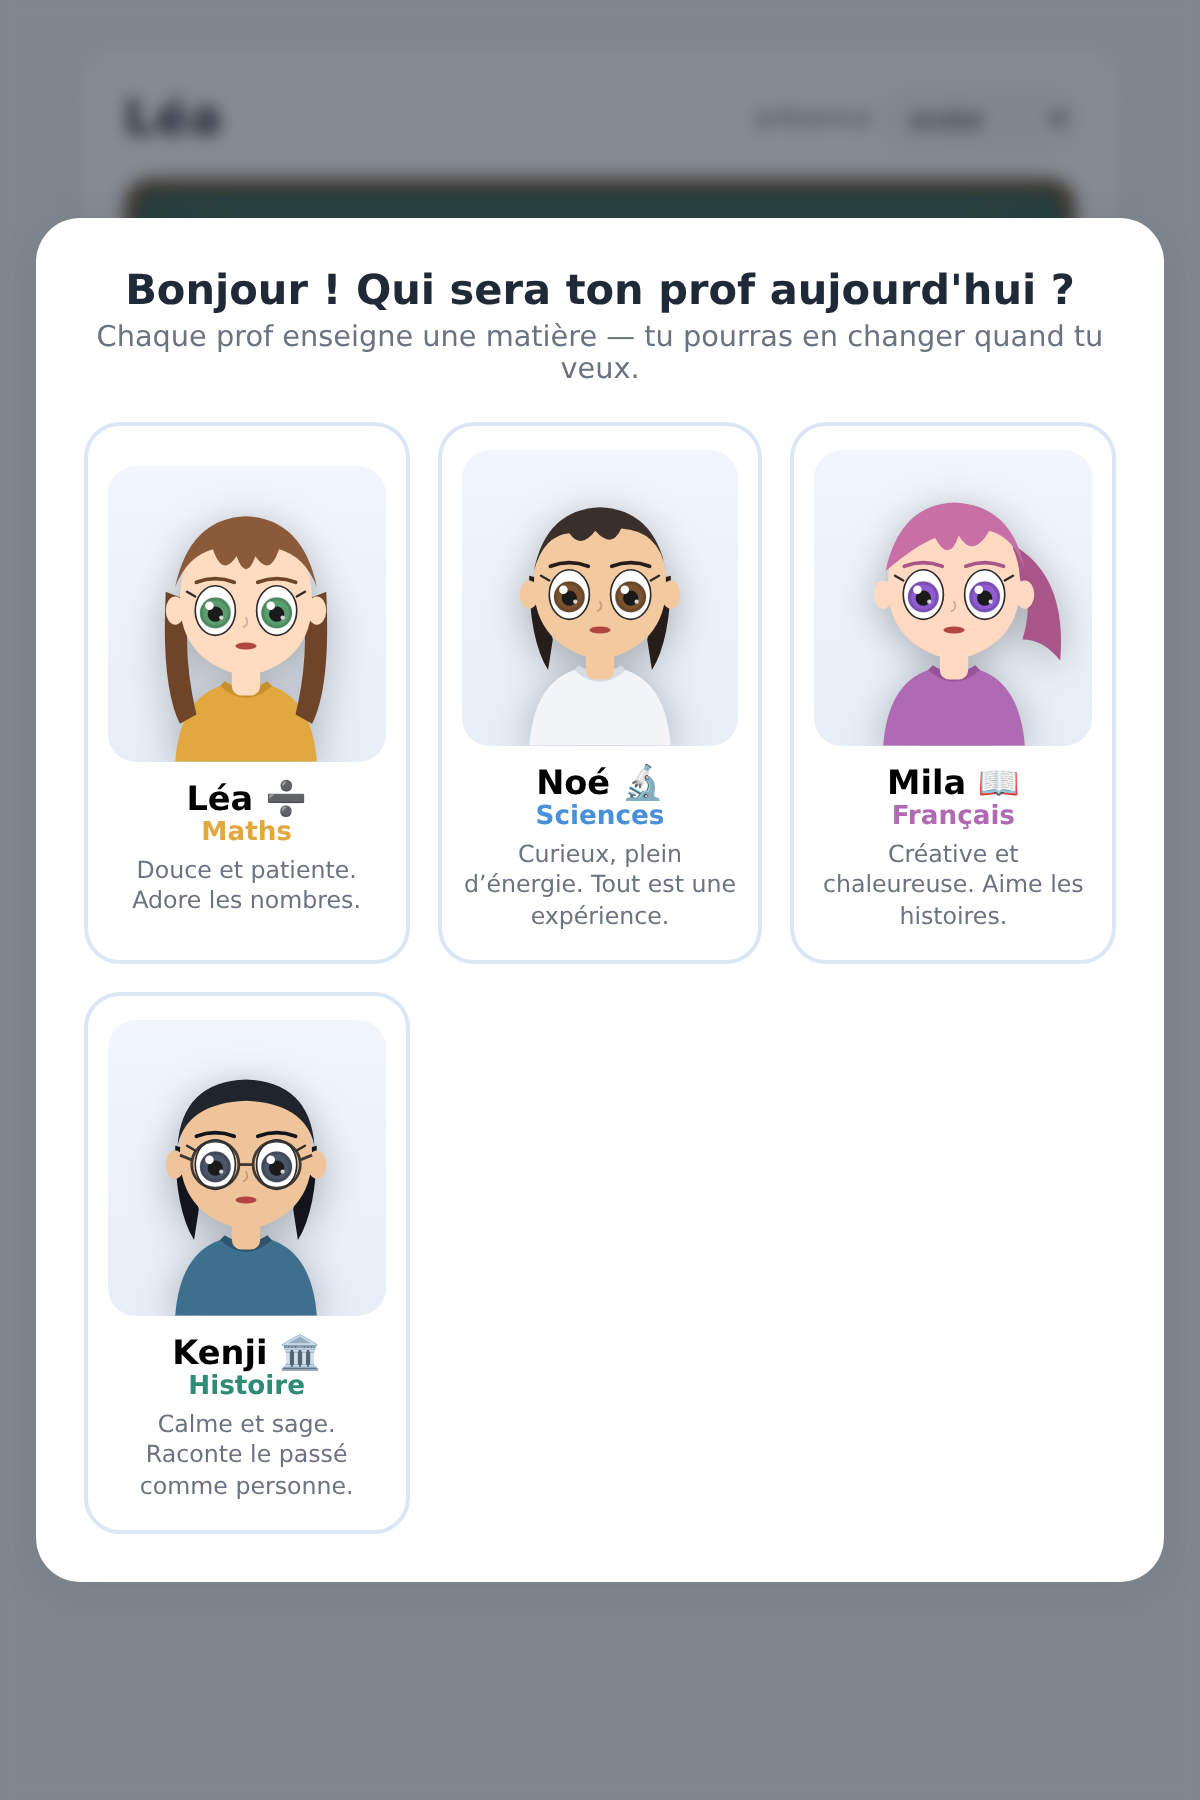
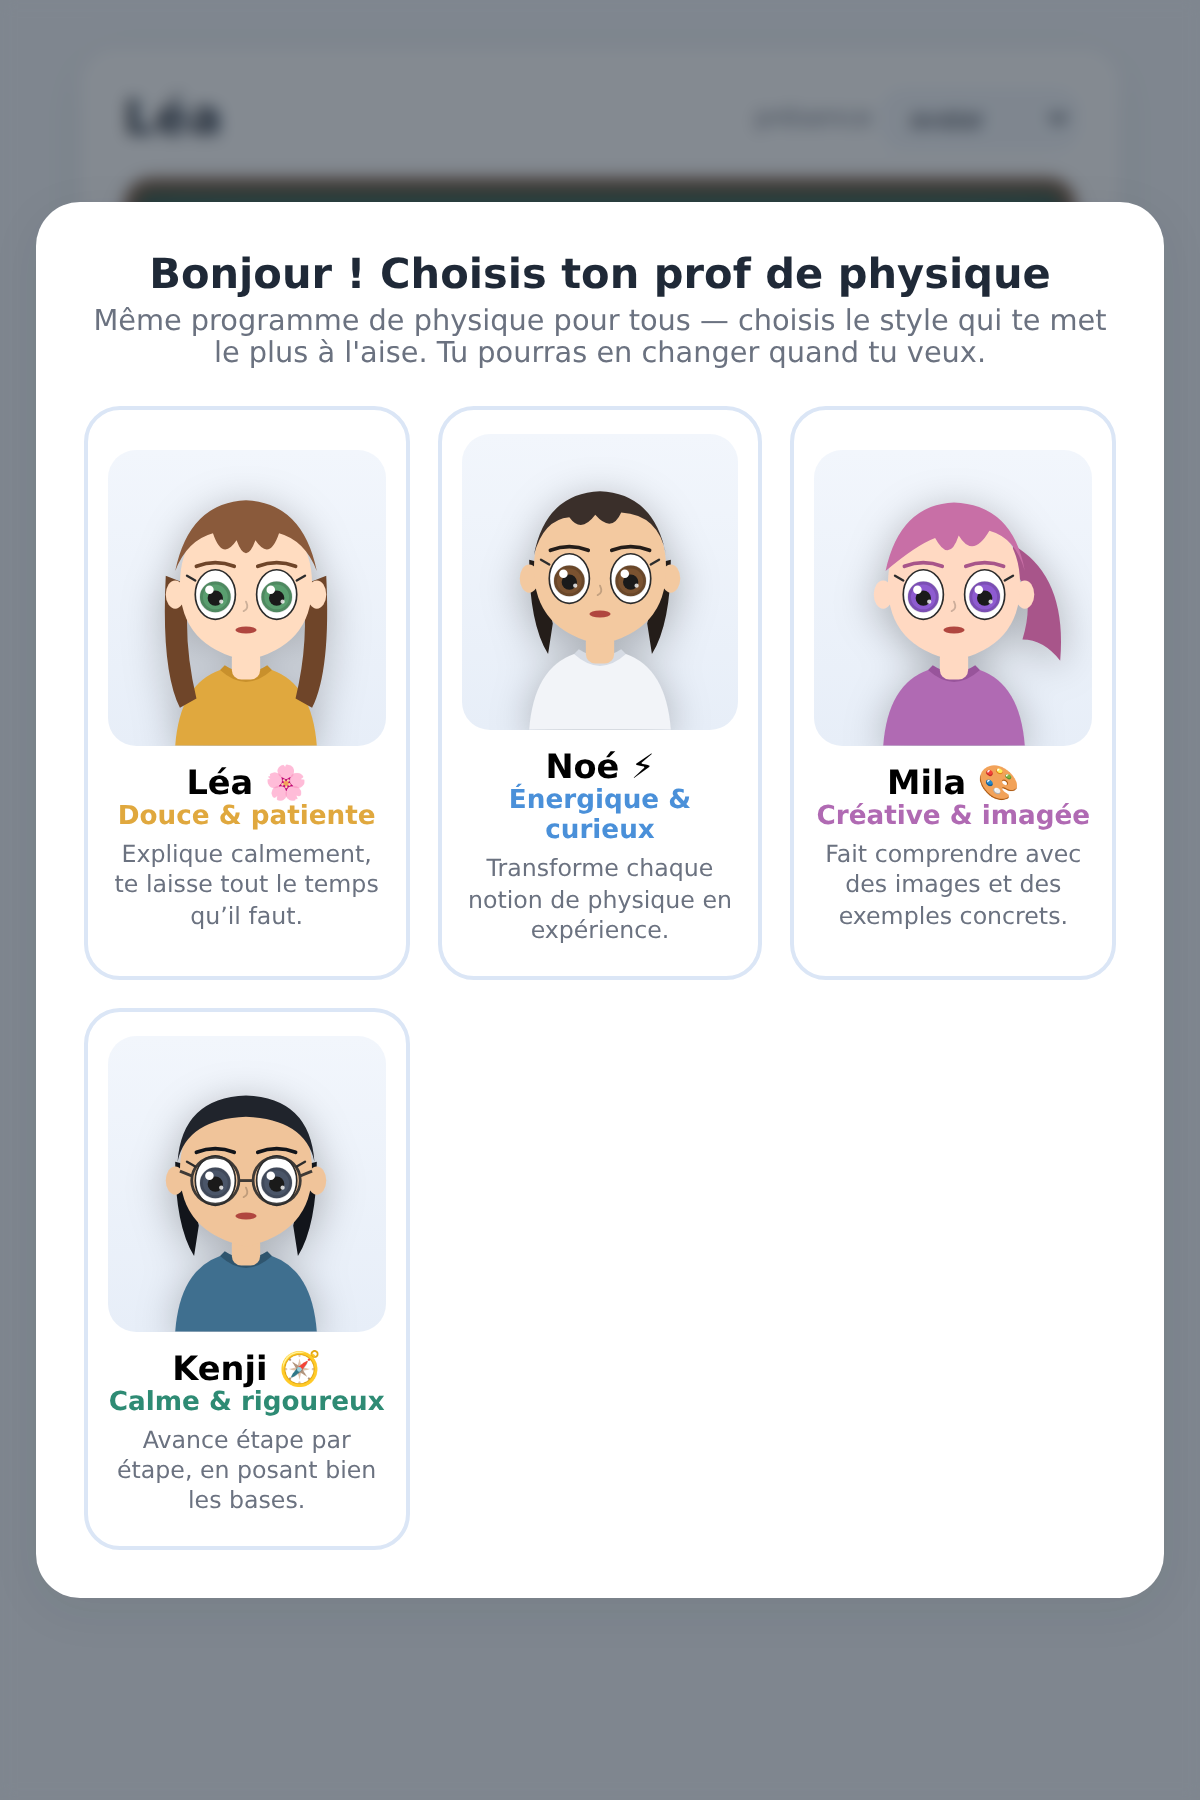
web: v1 = physique — le choix du prof porte sur le STYLE, pas la matière
Cadrage v1 : on ne développe que la PHYSIQUE (les autres matières
viendront dans une autre appli). Le choix au démarrage n'est donc pas un
choix de matière mais de style de prof (même programme pour tous, §7).

- personas.js : MATIERE = 'Physique' ; champ `style` (Douce & patiente,
  Énergique & curieux, Créative & imagée, Calme & rigoureux) remplace
  `matiere` ; taglines orientées personnalité/pédagogie.
- app.js : la carte affiche le style ; sous-titre = « prof de physique · <style> ».
- index.html : écran de choix « Choisis ton prof de physique — même
  programme pour tous, choisis le style qui te met à l'aise ».

Note : le contenu d'exercice reste la tranche P1 (maths, 27+48) tant que
le curriculum de physique n'est pas construit — prochaine étape contenu.

Claude-Session: https://claude.ai/code/session_018qKyAFHQ92VEuxRaBFCwuv

diff --git a/web/personas.js b/web/personas.js
@@ -6,32 +6,37 @@
 // moteur, mêmes invariants (R6). L'avatar expose des IDs stables pour que
 // l'animation (app.js) les pilote quel que soit le persona.
 
-/** Catalogue des profs sélectionnables. `coiffe` choisit un gabarit de cheveux. */
+// v1 = PHYSIQUE uniquement (les autres matières viendront dans une autre appli).
+// Le choix ne porte donc PAS sur la matière mais sur le STYLE du prof : même
+// programme de physique pour tous, présence/personnalité différentes (§7).
+export const MATIERE = 'Physique';
+
+/** Catalogue des profs (styles). `coiffe` choisit un gabarit de cheveux. */
 export const PERSONAS = [
   {
-    id: 'persona-lea', nom: 'Léa', matiere: 'Maths', emoji: '➗',
-    tagline: 'Douce et patiente. Adore les nombres.',
+    id: 'persona-lea', nom: 'Léa', style: 'Douce & patiente', emoji: '🌸',
+    tagline: 'Explique calmement, te laisse tout le temps qu’il faut.',
     peau: '#ffdcc0', cheveux: '#8a5a3b', cheveux2: '#6f4529',
     tenue: '#e0a83e', tenue2: '#c8902c', iris: '#5a9e6f', accent: '#e0a83e',
     coiffe: 'longs',
   },
   {
-    id: 'persona-noe', nom: 'Noé', matiere: 'Sciences', emoji: '🔬',
-    tagline: 'Curieux, plein d’énergie. Tout est une expérience.',
+    id: 'persona-noe', nom: 'Noé', style: 'Énergique & curieux', emoji: '⚡',
+    tagline: 'Transforme chaque notion de physique en expérience.',
     peau: '#f3c9a0', cheveux: '#3a2f2a', cheveux2: '#241d19',
     tenue: '#f2f4f8', tenue2: '#d6dbe4', iris: '#7a5230', accent: '#4a90d9',
     coiffe: 'courts',
   },
   {
-    id: 'persona-mila', nom: 'Mila', matiere: 'Français', emoji: '📖',
-    tagline: 'Créative et chaleureuse. Aime les histoires.',
+    id: 'persona-mila', nom: 'Mila', style: 'Créative & imagée', emoji: '🎨',
+    tagline: 'Fait comprendre avec des images et des exemples concrets.',
     peau: '#ffd9c2', cheveux: '#c86fa6', cheveux2: '#a8558a',
     tenue: '#b06ab3', tenue2: '#98549b', iris: '#8e5bd0', accent: '#b06ab3',
     coiffe: 'queue',
   },
   {
-    id: 'persona-kenji', nom: 'Kenji', matiere: 'Histoire', emoji: '🏛',
-    tagline: 'Calme et sage. Raconte le passé comme personne.',
+    id: 'persona-kenji', nom: 'Kenji', style: 'Calme & rigoureux', emoji: '🧭',
+    tagline: 'Avance étape par étape, en posant bien les bases.',
     peau: '#f0c49a', cheveux: '#20242c', cheveux2: '#12151b',
     tenue: '#3f6f8f', tenue2: '#2f556e', iris: '#4a5568', accent: '#2e8b74',
     coiffe: 'carre', lunettes: true,

diff --git a/web/app.js b/web/app.js
@@ -4,7 +4,7 @@
 // SYNTHÉTIQUES (visèmes/regard) — jamais de caméra (§1.4). Même moteur à tous
 // les paliers (R6). L'expression est imposée par le déterministe (A1).
 
-import { PERSONAS, personaParId, avatarSVG } from './personas.js';
+import { PERSONAS, MATIERE, personaParId, avatarSVG } from './personas.js';
 
 const $ = (sel) => document.querySelector(sel);
 const reduireMouvement = window.matchMedia('(prefers-reduced-motion: reduce)').matches;
@@ -144,7 +144,7 @@ function construireChoix() {
     carte.innerHTML =
       `<div class="choix-avatar">${avatarSVG(p, p.id)}</div>` +
       `<div class="choix-nom">${p.nom} <span class="choix-emoji">${p.emoji}</span></div>` +
-      `<div class="choix-matiere">${p.matiere}</div>` +
+      `<div class="choix-matiere">${p.style}</div>` +
       `<div class="choix-tag">${p.tagline}</div>`;
     carte.addEventListener('click', () => choisirProf(p.id));
     grille.append(carte);
@@ -156,7 +156,7 @@ function choisirProf(id) {
   document.documentElement.style.setProperty('--accent', persona.accent);
   $('#avatarHost').innerHTML = avatarSVG(persona);
   $('#titre').textContent = persona.nom;
-  $('#sousTitre').textContent = `prof de ${persona.matiere.toLowerCase()}`;
+  $('#sousTitre').textContent = `prof de ${MATIERE.toLowerCase()} · ${persona.style.toLowerCase()}`;
   $('#changerProf').hidden = false;
   $('#choix').classList.add('cache');
   expression = 'happy';

diff --git a/web/index.html b/web/index.html
@@ -77,8 +77,8 @@
          jusqu'à la sélection. -->
     <div id="choix" class="choix" role="dialog" aria-label="Choix du professeur">
       <div class="choix-panneau">
-        <h2>Bonjour ! Qui sera ton prof aujourd'hui ?</h2>
-        <p class="choix-sous">Chaque prof enseigne une matière — tu pourras en changer quand tu veux.</p>
+        <h2>Bonjour ! Choisis ton prof de physique</h2>
+        <p class="choix-sous">Même programme de physique pour tous — choisis le style qui te met le plus à l'aise. Tu pourras en changer quand tu veux.</p>
         <div id="choixGrille" class="choix-grille"></div>
       </div>
     </div>
